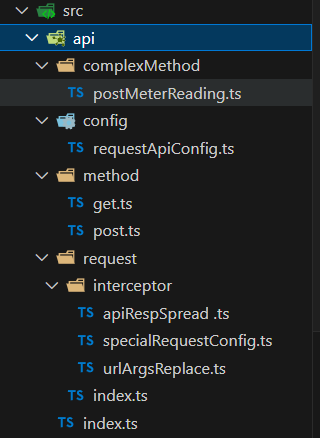
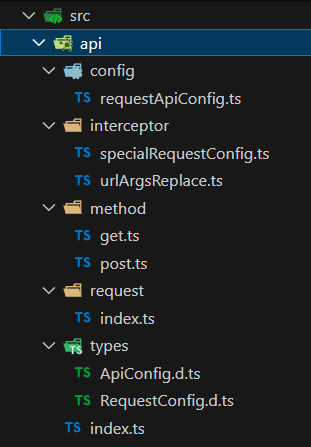
add axios.md

diff --git a/_posts/2024-03-18-Axios.md b/_posts/2024-03-18-Axios.md
@@ -1,0 +1,310 @@
+---
+layout:     post
+title:      Axios封装
+subtitle:   
+date:       2024-03-18
+author:     ZSJ
+header-img: img/post-bg-debug.png
+catalog: true
+tags:
+    - typescript
+    - axios
+---
+
+Axios封装能改善原生框架的不足，能够智能感知参数类型，不需要每次调用时使用try-catch处理错误，能够支持路径参数替换。具体封装方法如下：
+
+## 创建一个api目录和对应的子目录，用来保存所有与api调用相关的操作，目录结构如下：
+![目录结构](https://fm9t.github.io/img/blogimg/2024-04-05101006.png)
+config目录保存各个Apiy请求的配置信息，interceptor目录保存各个拦截器，method目录保存具体的api调用方法，request目录旋转axios请求方法，types目录保存针对axios封装扩展的一些类型 
+
+## 在types目录下创建ApiConfig.d.ts文件， 内容如下：
+  interface ApiConfig {
+    url: string;
+    useToken: boolean;
+    useBaseUrl: boolean;
+  }
+
+  export default ApiConfig;
+
+## 在types目录下创建RequestConfig.d.ts文件，内容如下：
+    import type { AxiosRequestConfig } from 'axios';
+    import type ApiConfig from './ApiConfig';
+
+    interface RequestConfig extends AxiosRequestConfig {
+      args?: Record<string, any>;
+      specialConfig?: ApiConfig;
+    }
+
+    export default RequestConfig;
+
+## 在interceptor目录下创建urlArgsReplace.ts，内容如下：
+    import type { InternalAxiosRequestConfig } from 'axios';
+    import type RequestConfig from '../types/RequestConfig';
+
+    const urlArgsReplace = {
+      request: {
+        onFulfilled: (config: InternalAxiosRequestConfig) => {
+          const { url, args } = config as RequestConfig;
+          if (args) {
+            const lostParams: string[] = [];
+            const replacedUrl = url!.replace(/\{([^}]+)\}/g, (_res, arg: string) => {
+              if (!args[arg]) {
+                lostParams.push(arg);
+              }
+              return args[arg] as string;
+            });
+            if (lostParams.length) {
+              return Promise.reject(new Error('在args中找不到对应的路径参数'));
+            }
+            return { ...config, url: replacedUrl };
+          }
+          return config;
+        },
+      },
+    };
+
+    export default urlArgsReplace;
+
+## 在interceptor目录下创建文件specialRequestConfig.ts, 内容如下：
+    import type { InternalAxiosRequestConfig } from 'axios';
+    import type RequestConfig from '../types/RequestConfig';
+
+    const specialRequestConfig = {
+      request: {
+        onFulfilled: async (config: InternalAxiosRequestConfig) => {
+          console.log(`specialRequestConfig all config: ${JSON.stringify(config)}`);
+          const { specialConfig } = config as RequestConfig;
+          console.log(`specialRequestConfig specialConfig config: ${JSON.stringify(specialConfig)}`);
+          if (specialConfig) {
+            if (specialConfig.useBaseUrl) {
+              // window.webConfig.apiUrl是一个全局变量，保存了api baseURL, 可以改成自己合适的方式
+              config.baseURL = window.webConfig.apiUrl;
+            }
+            if (specialConfig.useToken) {
+              // 从localStorage中获取token, 需要改成合适的方式
+              const data = localStorage.getItem('ZSJTESTWEBTOKEN');
+              config.headers.Authorization = `Bearer ${data}`;
+            }
+            if (!config.url && specialConfig.url) {
+              config.url = specialConfig.url;
+            }
+            return { ...config };
+          }
+          return config;
+        },
+      },
+    };
+
+    export default specialRequestConfig;
+
+## 在request目录下创建index.ts文件，内容如下：
+    import axios from 'axios';
+    import type { AxiosError, AxiosResponse } from 'axios';
+    import urlArgsReplace from '../interceptor/urlArgsReplace';
+    import specialRequestConfig from '../interceptor/specialRequestConfig';
+    import type ApiConfig from '../types/ApiConfig';
+    import type RequestConfig from '../types/RequestConfig';
+
+    const instance = axios.create({
+      timeout: 240000,
+      baseURL: '',
+    });
+
+    instance.interceptors.request.use(specialRequestConfig.request.onFulfilled, undefined);
+    instance.interceptors.request.use(urlArgsReplace.request.onFulfilled, undefined);
+
+    export interface ResultFormat<T = any> {
+      data: null | T;
+      error: AxiosError | null;
+      response: AxiosResponse<T> | null;
+    }
+
+    /**
+    * 允许定义六个可选的泛型参数：
+    *    Payload: 用于定义响应结果的数据类型
+    *    Data：用于定义data的数据类型
+    *    Params：用于定义parmas的数据类型
+    *    Args：用于定义存放路径参数的属性args的数据类型
+    *    Headers: 用于定义额外的Header信息 （可以直接写在调用方法体内, 也可以作为泛型参数传入）
+    *    SpecialConifg: 用于定义额外的SpecialConfig信息（可以直接写在调用方法体内, 也可以作为泛型参数传入）
+    */
+    interface MakeRequest {
+      <Payload = any>(config: RequestConfig): (
+        requestConfig?: Partial<RequestConfig>,
+      ) => Promise<ResultFormat<Payload>>;
+
+      <Payload, Data>(config: RequestConfig): (
+        requestConfig: Partial<Omit<RequestConfig, 'data'>> & { data: Data },
+      ) => Promise<ResultFormat<Payload>>;
+
+      <Payload, Data, Params>(config: RequestConfig): (
+        requestConfig: Partial<Omit<RequestConfig, 'data' | 'params'>> &
+          (Data extends undefined ? { data?: undefined } : { data: Data }) & { params: Params },
+      ) => Promise<ResultFormat<Payload>>;
+
+      <Payload, Data, Params, Args>(config: RequestConfig): (
+        requestConfig: Partial<Omit<RequestConfig, 'data' | 'params' | 'args'>> &
+          (Data extends undefined ? { data?: undefined } : { data: Data }) &
+          (Params extends undefined ? { params?: undefined } : { params: Params }) & {
+            args: Args;
+          },
+      ) => Promise<ResultFormat<Payload>>;
+
+      <Payload, Data, Params, Args, Headers>(config: RequestConfig): (
+        requestConfig: Partial<Omit<RequestConfig, 'data' | 'params' | 'args' | 'headers'>> &
+          (Data extends undefined ? { data?: undefined } : { data: Data }) &
+          (Params extends undefined ? { params?: undefined } : { params: Params }) &
+          (Headers extends undefined ? { headers?: undefined } : { headers: Headers }) & {
+            args: Args;
+          },
+      ) => Promise<ResultFormat<Payload>>;
+
+      <Payload, Data, Params, Args, Headers>(config: RequestConfig): (
+        requestConfig: Partial<Omit<RequestConfig, 'data' | 'params' | 'args' | 'headers' | 'specialConfig'>> &
+          (Data extends undefined ? { data?: undefined } : { data: Data }) &
+          (Params extends undefined ? { params?: undefined } : { params: Params }) &
+          (Headers extends undefined ? { headers?: undefined } : { headers: Headers }) & {
+            args: Args;
+            specialConfig: ApiConfig;
+          },
+      ) => Promise<ResultFormat<Payload>>;
+    }
+
+    // eslint-disable-next-line arrow-body-style
+    const makeRequest: MakeRequest = <T>(config: RequestConfig) => {
+      return async (requestConfig?: Partial<RequestConfig>) => {
+        // 合并在service中定义的option和调用时从外部传入的option
+        const mergedConfig: RequestConfig = {
+          ...config,
+          ...requestConfig,
+          headers: {
+            ...config.headers,
+            ...requestConfig?.headers,
+          },
+        };
+        // 统一处理返回类型
+        try {
+          const response: AxiosResponse<T, RequestConfig> = await instance.request<T>(mergedConfig);
+          const { data } = response;
+          console.log(`response: ${JSON.stringify(response)}`);
+          return { error: null, data, response };
+        } catch (error: any) {
+          return { error, data: null, response: null };
+        }
+      };
+    };
+
+    export default makeRequest;
+
+## 在config目录下创建requestApiConfig.ts文件，其内容如下：
+    import type ApiConfig from "../types/ApiConfig";
+
+    // 测试使用的api，需要修改成正式的api 
+    const enum ApiName {
+      userLogin = 'userLogin',
+      etickets = 'etickets',
+      eticketstats = 'eticketstats',
+      testapi = 'testapi',
+    }
+
+    type ApiNameStrings = keyof typeof ApiName;
+
+    const requestApiConfig : Record<ApiNameStrings, ApiConfig> = {
+      userLogin: {
+        url: 'userLogins',
+        useToken: false,
+        useBaseUrl: true,
+      },
+      etickets: {
+        url: 'etickets',
+        useToken: true,
+        useBaseUrl: true,
+      },
+      eticketstats: {
+        url: 'etickets/stats',
+        useToken: true,
+        useBaseUrl: true,
+      },
+      testapi: {
+        url: 'values',
+        useToken: false,
+        useBaseUrl: true,
+      }
+    };
+    export type { ApiName, ApiNameStrings };
+    export default requestApiConfig;
+
+## 在method目录下添加get.ts, 保存所有的get调用，其内容如下，如有其他调用，在文件内继续添加：
+    import makeRequest from '../request';
+    import requestApiConfig from '../config/requestApiConfig';
+    import type ETicket from '../../types/ETicket';
+
+    const method = 'get';
+
+    /* api名称手工提供，以便可以创建不在apiConfig中的记录, 或者同一api有从种get方式 */
+    export default {
+      etickets: makeRequest<ETicket[],
+        undefined,
+        {
+          createdDateFrom: Date; createDateTimeTo: Date; pageIndex: number; pageSize: number;
+        }>({
+          method,
+          specialConfig: requestApiConfig.etickets,
+        }),
+      eticketsDetail: makeRequest<
+        ETicket,
+        undefined,
+        undefined,
+        { id: number }
+      >({
+        url: `${requestApiConfig.etickets.url}/{id}`,
+        specialConfig: requestApiConfig.etickets,
+      }),
+      eticketsStats: makeRequest<
+        number,
+        undefined,
+        {
+          createdDateFrom: Date; createDateTimeTo: Date; pageIndex: number; pageSize: number;
+        }
+      >({
+        method,
+        specialConfig: requestApiConfig.eticketstats,
+      }),
+      testapi: makeRequest<Array<string>
+      >({
+        method,
+        specialConfig: requestApiConfig.testapi,
+      }),
+    };
+
+## 在method目录下添加post.ts, 保存所有的post调用，其内容如下，如有其他调用，在文件内继续添加：
+    import makeRequest from '../request';
+    import TokenResponse from '../../types/TokenResponse';
+
+    const method = 'post';
+
+    /* api名称手工提供，以便可以创建不在apiConfig中的记录 */
+
+    export default {
+      userLogin: makeRequest<TokenResponse,
+        { username: string; password: string }>({
+          method,
+        }),
+    };
+
+## 如果有put, delete, patch等api调用，在method下继续添加即可
+
+## 在api目录下添加index.ts，将method下的所有方法统一导出
+    import post from './method/post';
+    import get from './method/get';
+
+    const api = {
+      get,
+      post,
+    };
+
+    export default api;
+
+## 使用示例：
+![get调用](https://fm9t.github.io/img/blogimg/2024-04-05101008.png)
+![post调用](https://fm9t.github.io/img/blogimg/2024-04-05101007.png)

diff --git a/_posts/2024-03-19-DDD-Develop.md b/_posts/2024-03-19-DDD-Develop.md
@@ -37,7 +37,9 @@ tags:
 领域模型，项目中最重的一层，依赖于Infrastrucure层，单独的领域模型分别放在各自的目录下，每个领域模型目录下除了对应的模型外还有领域服务接口。
 
 ### Domain.Repository
-领域仓储抽象层，依赖于Domain层和Infrastructure层，在.net core中由于EF Core中的DbContext已经按Unit of Work来设计了，因此没有必要使用仓储接口，可以直接使用继续自DbContext的抽象类来作为仓储，可以参考 [微软文档] (https://learn.microsoft.com/zh-cn/aspnet/core/data/ef-mvc/advanced?view=aspnetcore-8.0#create-an-abstraction-layer)。 之所以使用抽象类，是为了将数据库细节隐藏起来，如果更换数据库，只需要更换数据映射的配置。
+领域仓储抽象层，依赖于Domain层和Infrastructure层，在.net core中由于EF Core中的DbContext已经按Unit of Work来设计了，因此没有必要使用仓储接口，可以直接使用继续自DbContext的抽象类来作为仓储，可以参考:
+![微软文档] (https://learn.microsoft.com/zh-cn/aspnet/core/data/ef-mvc/advanced?view=aspnetcore-8.0#create-an-abstraction-layer)
+之所以使用抽象类，是为了将数据库细节隐藏起来，如果更换数据库，只需要更换数据映射的配置。
 
 ### Domain.Repository.Impl
 领域仓储抽象层对应的实现，依赖于Domain.Repository层和Infrastrucure层，主要是配置数据表的相关映射，将数据库连接信息和具体的数据库类型关联起来。
